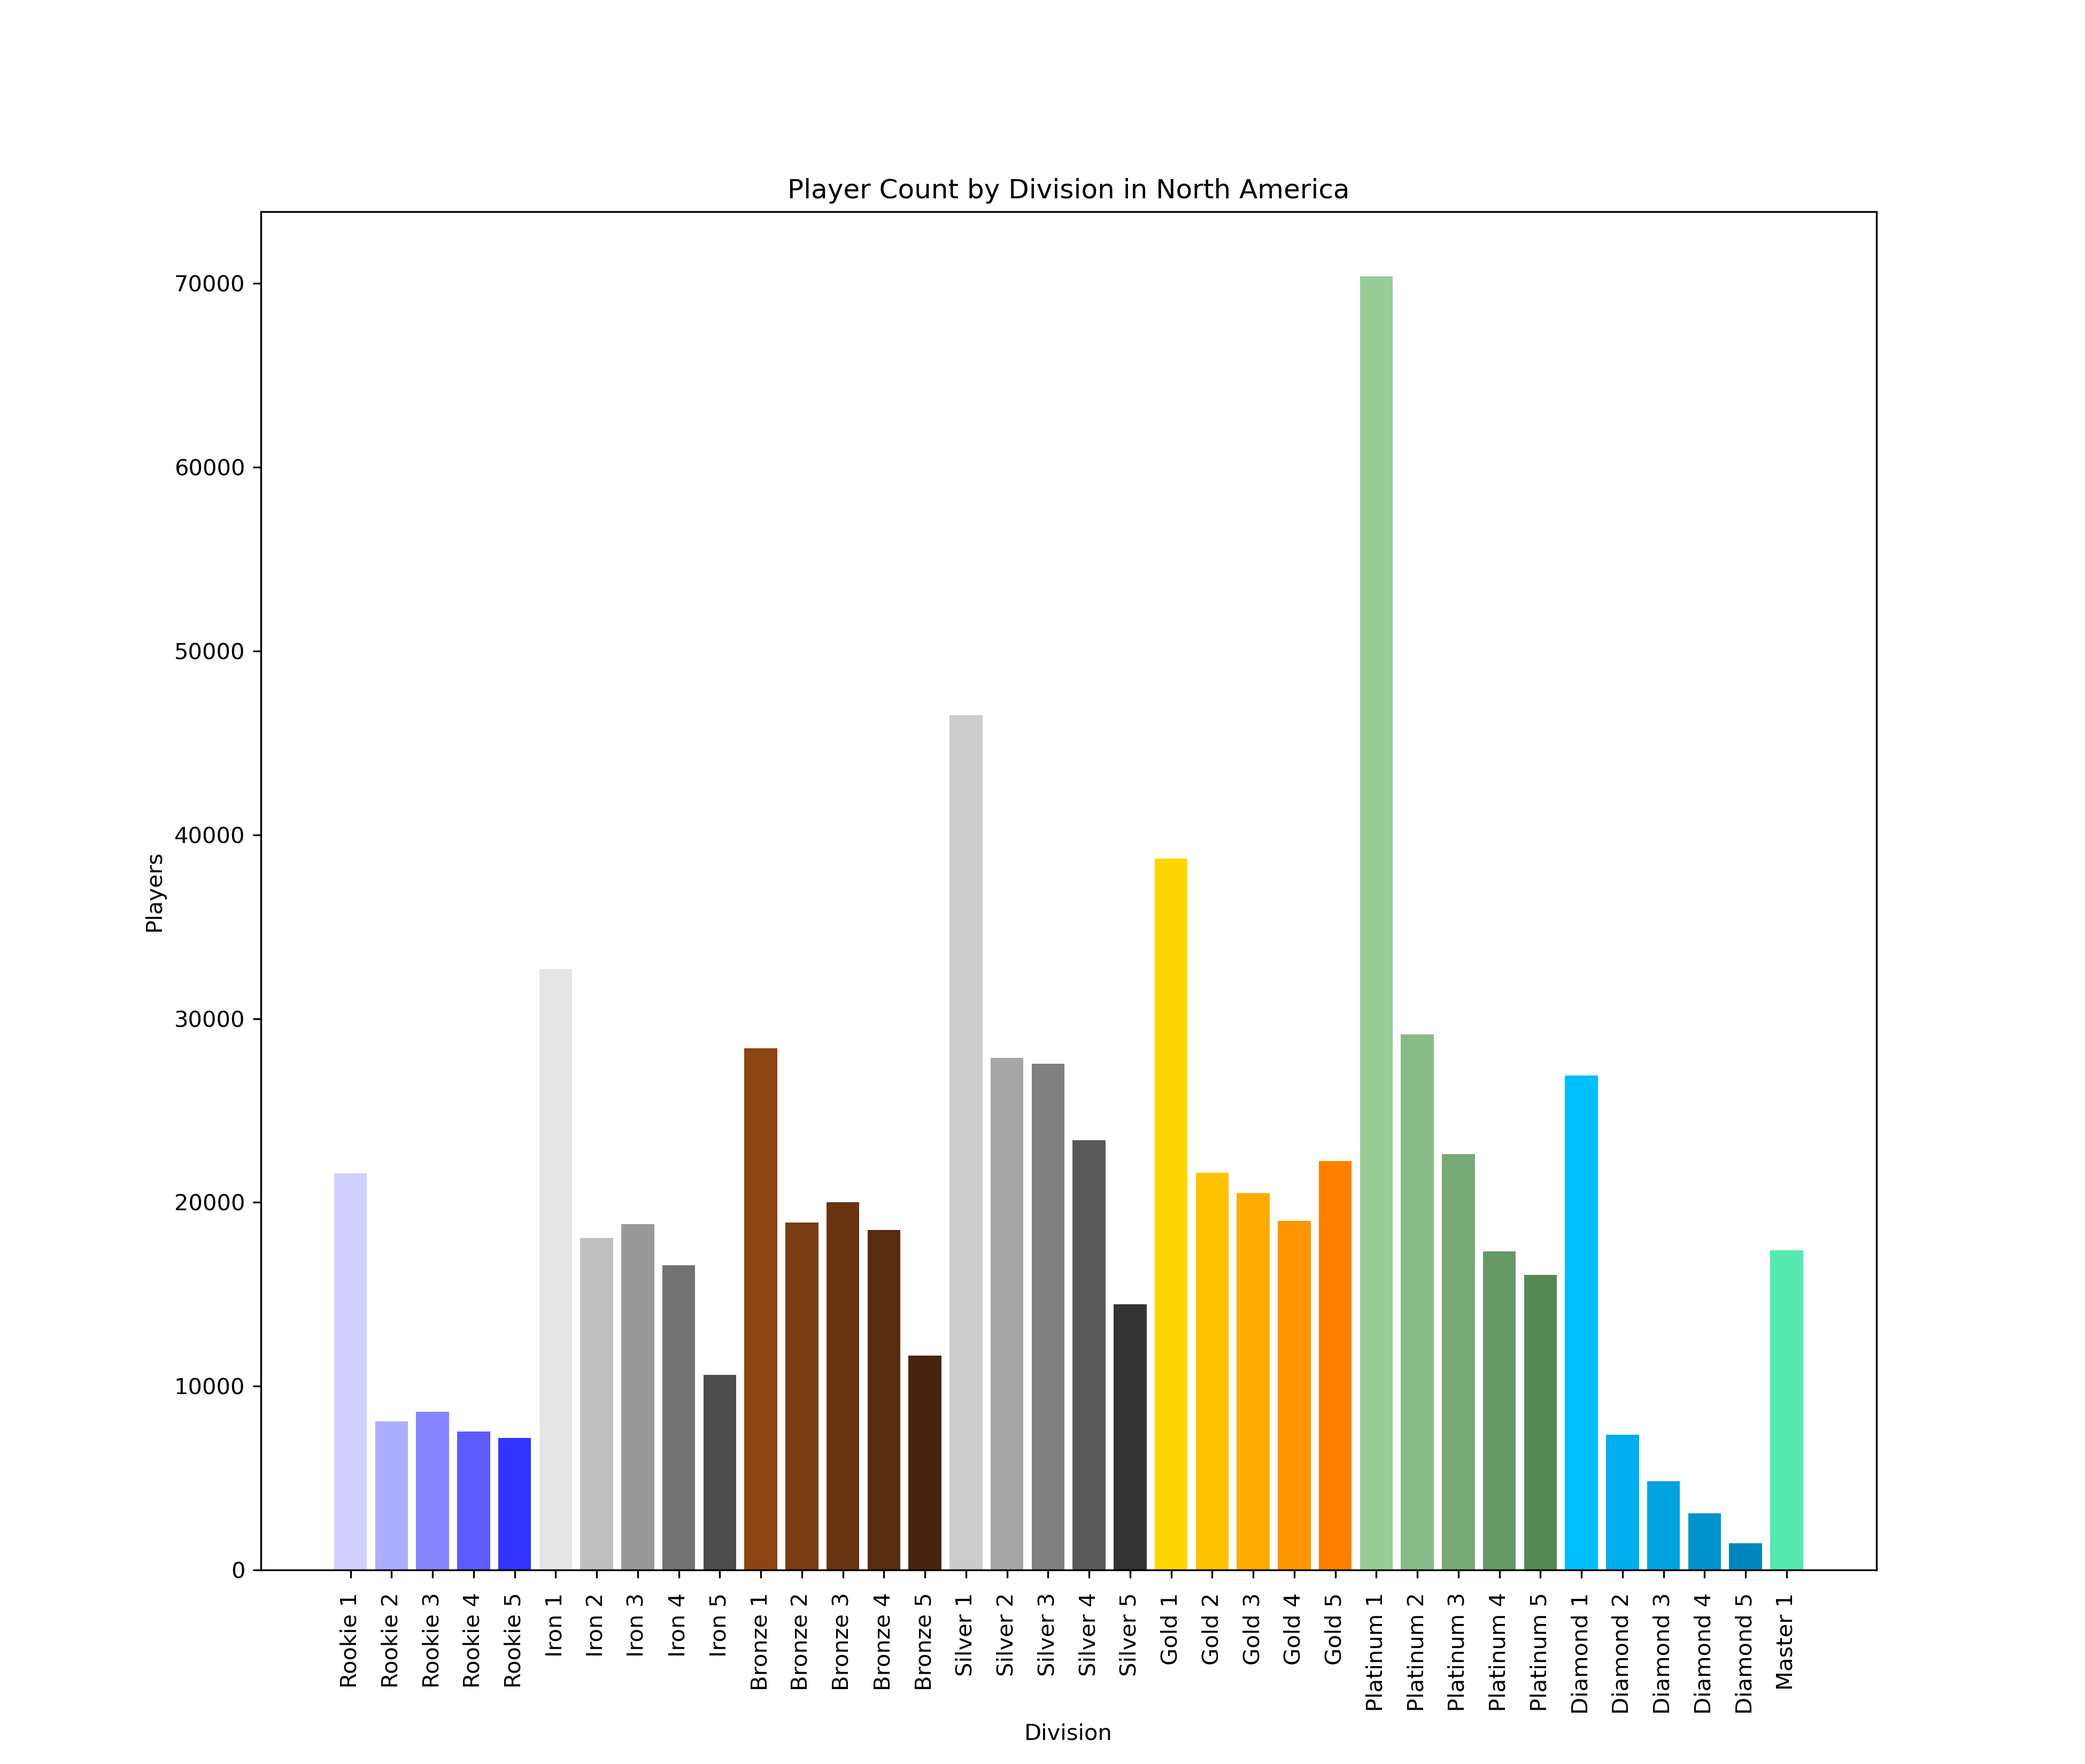
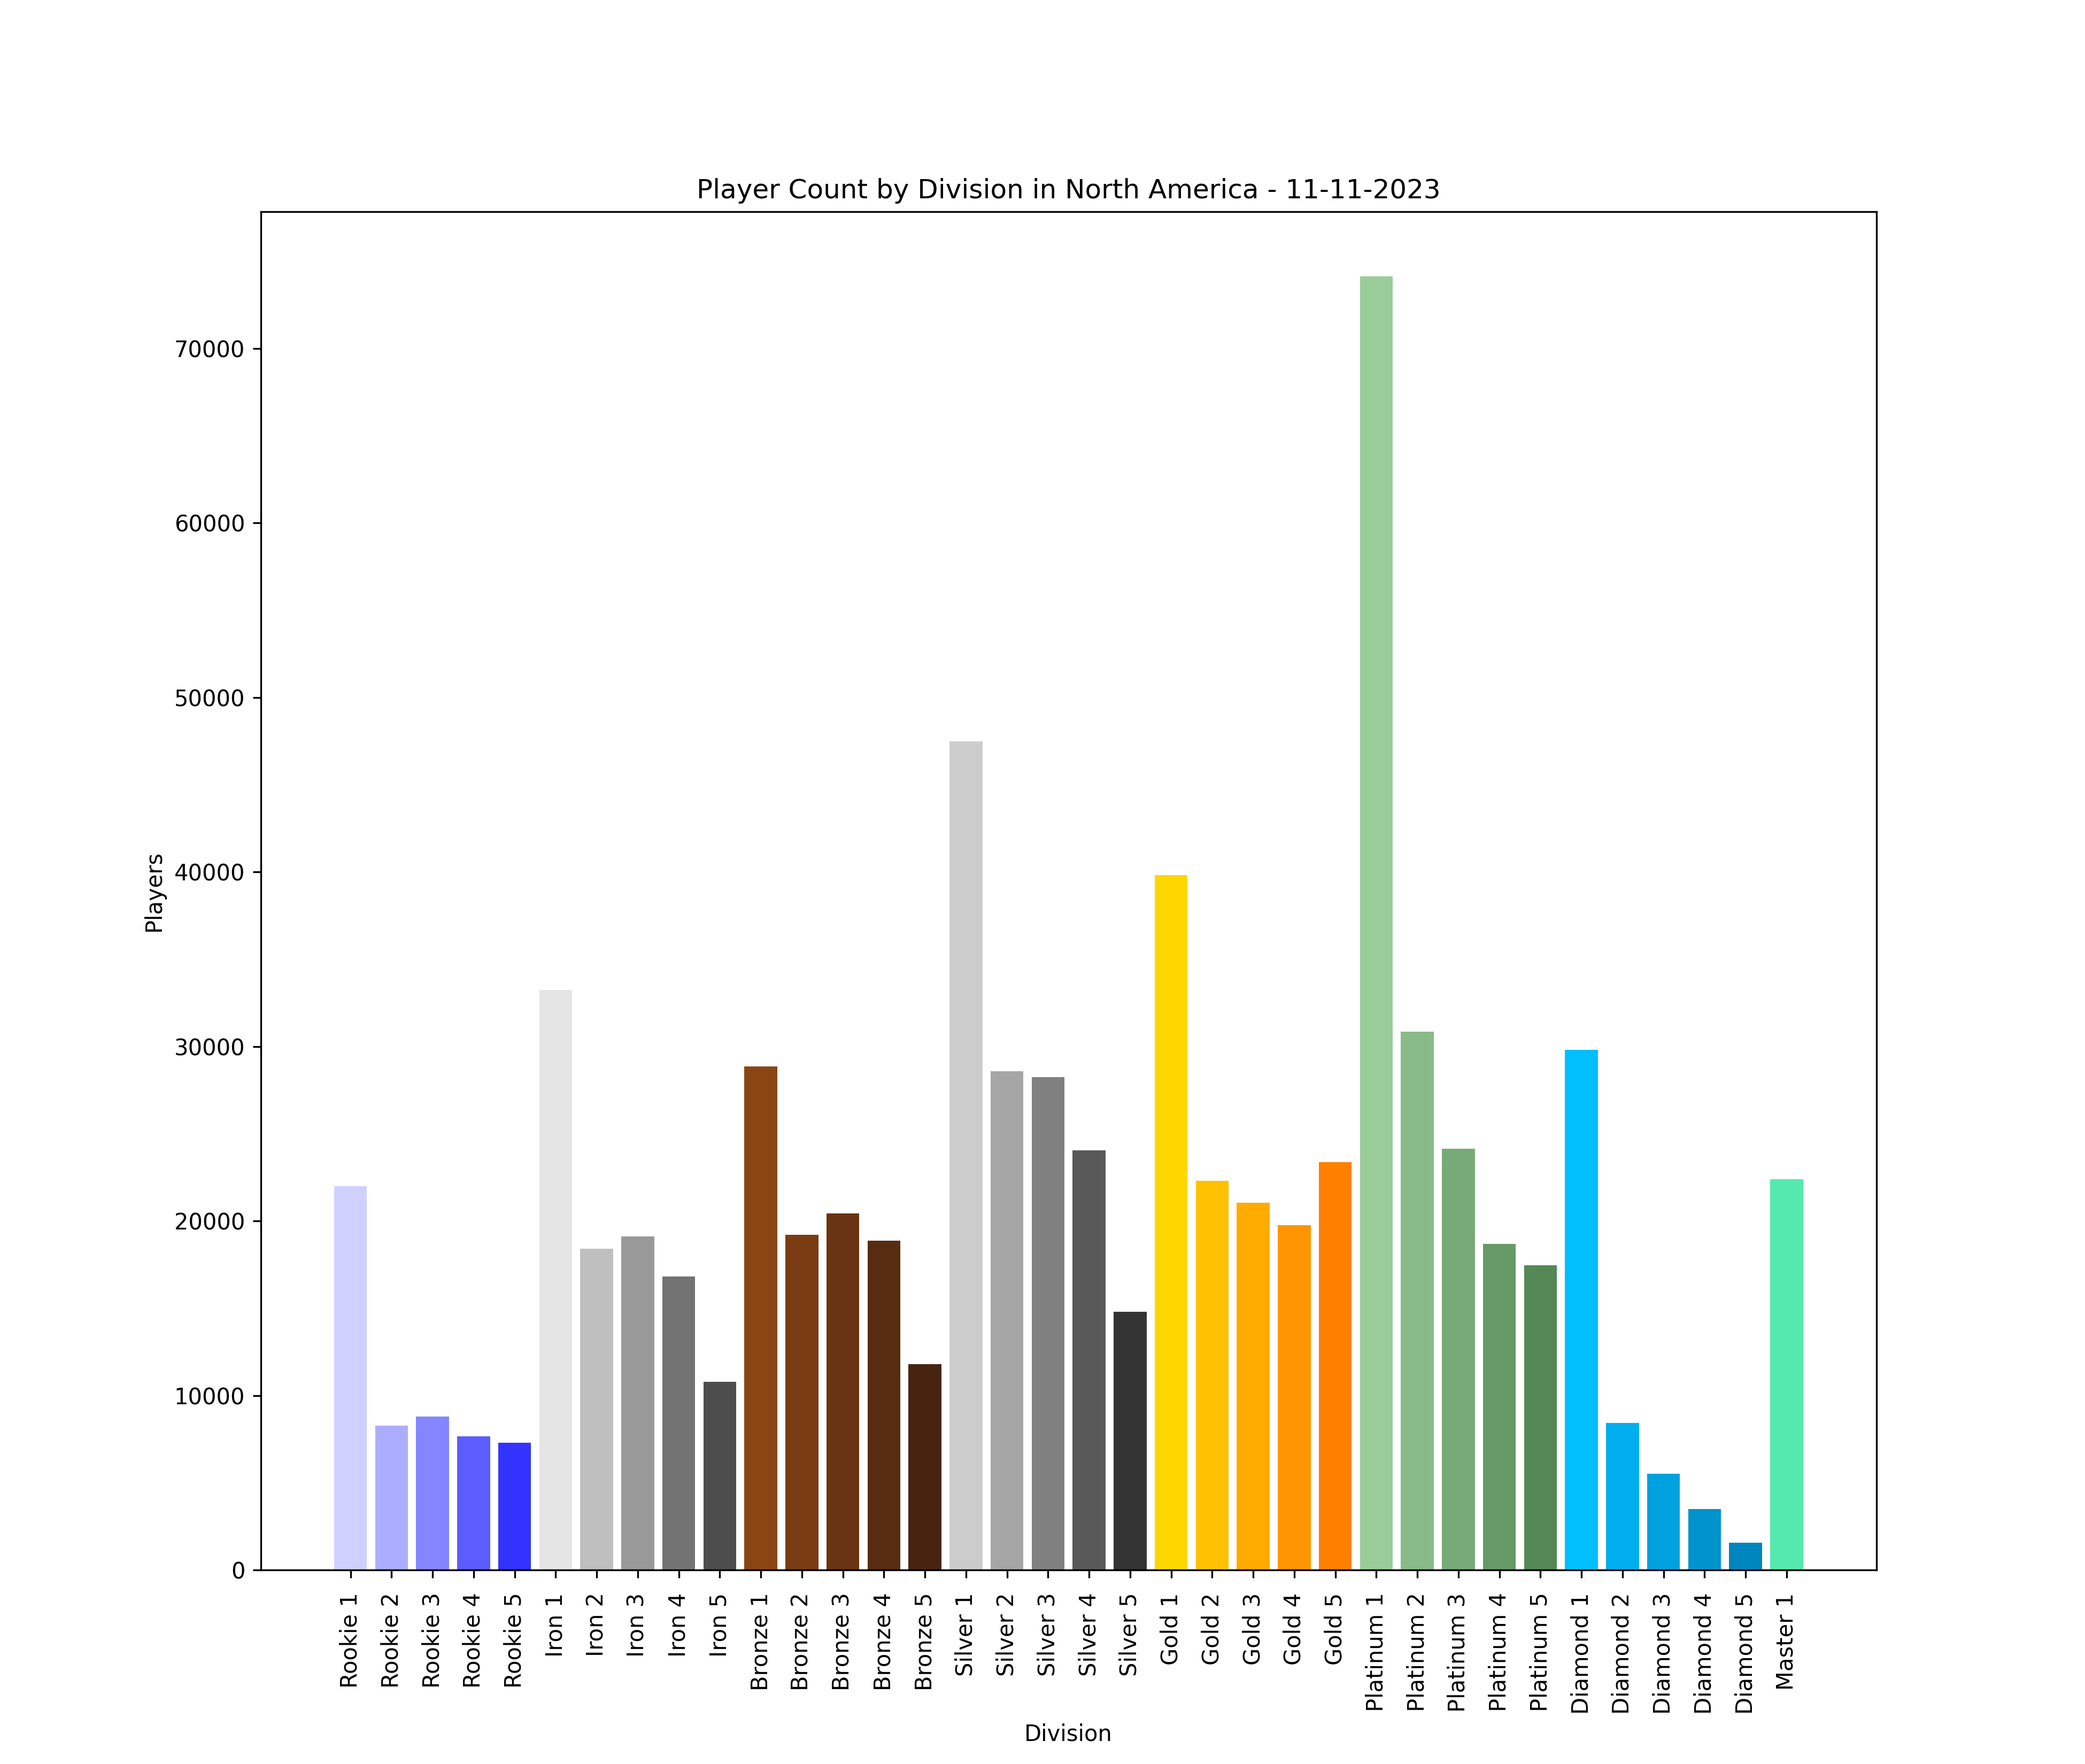
added dependencies

diff --git a/test.py b/test.py
@@ -1,28 +1,26 @@
-from datetime import datetime
-# import boto3
+# from datetime import datetime
+# # import boto3
 
-<<<<<<< HEAD
-def upload_files_s3():
-    makeplot.output_plots()
+# def upload_files_s3():
+#     makeplot.output_plots()
 
-    bucket_name = 'sf6rankdistribution'
-    current_date = datetime.now().strftime("%Y-%m-%d")
+#     bucket_name = 'sf6rankdistribution'
+#     current_date = datetime.now().strftime("%Y-%m-%d")
 
 
-    s3 = boto3.client('s3')
+#     s3 = boto3.client('s3')
 
-    s3.upload_file('current_bar.png', bucket_name, 'current/current_bar.png')
-    s3.upload_file('current_pie.png', bucket_name, 'current/current_pie.png')
-    s3.upload_file('rank_distribution.csv', bucket_name, 'current/current_csv.csv')
+#     s3.upload_file('current_bar.png', bucket_name, 'current/current_bar.png')
+#     s3.upload_file('current_pie.png', bucket_name, 'current/current_pie.png')
+#     s3.upload_file('rank_distribution.csv', bucket_name, 'current/current_csv.csv')
 
-    s3.upload_file('current_bar.png', bucket_name, f'images/bar/{current_date}--bar.png')
-    s3.upload_file('current_pie.png', bucket_name, f'images/pie/{current_date}--pie.png')
+#     s3.upload_file('current_bar.png', bucket_name, f'images/bar/{current_date}--bar.png')
+#     s3.upload_file('current_pie.png', bucket_name, f'images/pie/{current_date}--pie.png')
 
-    s3.upload_file('rank_distribution.csv', bucket_name, f'csv/{current_date}--csv.csv')
+#     s3.upload_file('rank_distribution.csv', bucket_name, f'csv/{current_date}--csv.csv')
 
-makeplot.output_plots()
-=======
-current_date = datetime.now().strftime("%m-%d-%Y")
 
-print(current_date)
->>>>>>> cc45aeea0d3a45e589846d71f1bc3f82483ec2c0
+# makeplot.output_plots()
+# current_date = datetime.now().strftime("%m-%d-%Y")
+
+# print(current_date)

diff --git a/data_analysis/makeplot.py b/data_analysis/makeplot.py
@@ -22,11 +22,8 @@ def output_plots():
 
     # %%
     pie_info = data.groupby('League').sum()
-<<<<<<< HEAD
-    fig = px.pie(title='Distribution by League in North America',labels = pie_info.index, values = pie_info['Number of Players'], names=pie_info.index, width=700,height=700,color=pie_info.index)
-=======
-    fig = px.pie(title='Distribution by League - {current_date}',labels = pie_info.index, values = pie_info['Number of Players'], names=pie_info.index, width=700,height=700,color=pie_info.index)
->>>>>>> cc45aeea0d3a45e589846d71f1bc3f82483ec2c0
+
+    fig = px.pie(title=f'Distribution by League - {current_date}',labels = pie_info.index, values = pie_info['Number of Players'], names=pie_info.index, width=700,height=700,color=pie_info.index)
     fig.update_traces(textposition='outside', textinfo='percent+label')
 
 

diff --git a/scraper.py b/scraper.py
@@ -26,7 +26,7 @@ def scrape(league,league_division,rank_page):
     driver.get(url) 
 
     driver.add_cookie({
-        "name":"buckler_praise_date","value":"1695945638704"
+        "name":"buckler_praise_date","value":"1699762251123"
     })
     driver.add_cookie({
         "name":"buckler_r_id","value":"ffacf239-a620-4795-aa40-944eb2c851ab"
@@ -35,7 +35,7 @@ def scrape(league,league_division,rank_page):
         "name":"pll_language","value":"en"
     })
     driver.add_cookie({
-        "name":"buckler_id","value":"33RUGpVfr3B_1pmws3z4dtJ0TQ--UK8GWj-E5EtcFl2SL0TAqhLvdvxczzKxUaoS"
+        "name":"buckler_id","value":"Ch2ojPnam1yk5NnxnFGcdyHFRI9VJNIV-TNkJEojmSmg7fQLRJfnD8_YkoAYQECE"
     })
 
     # Reload the page to apply the cookies

diff --git a/uploader.py b/uploader.py
@@ -19,3 +19,6 @@ def upload_files_s3():
     s3.upload_file('current_pie.png', bucket_name, f'images/pie/{current_date}--pie.png')
 
     s3.upload_file('rank_distribution.csv', bucket_name, f'csv/{current_date}--csv.csv')
+
+
+
